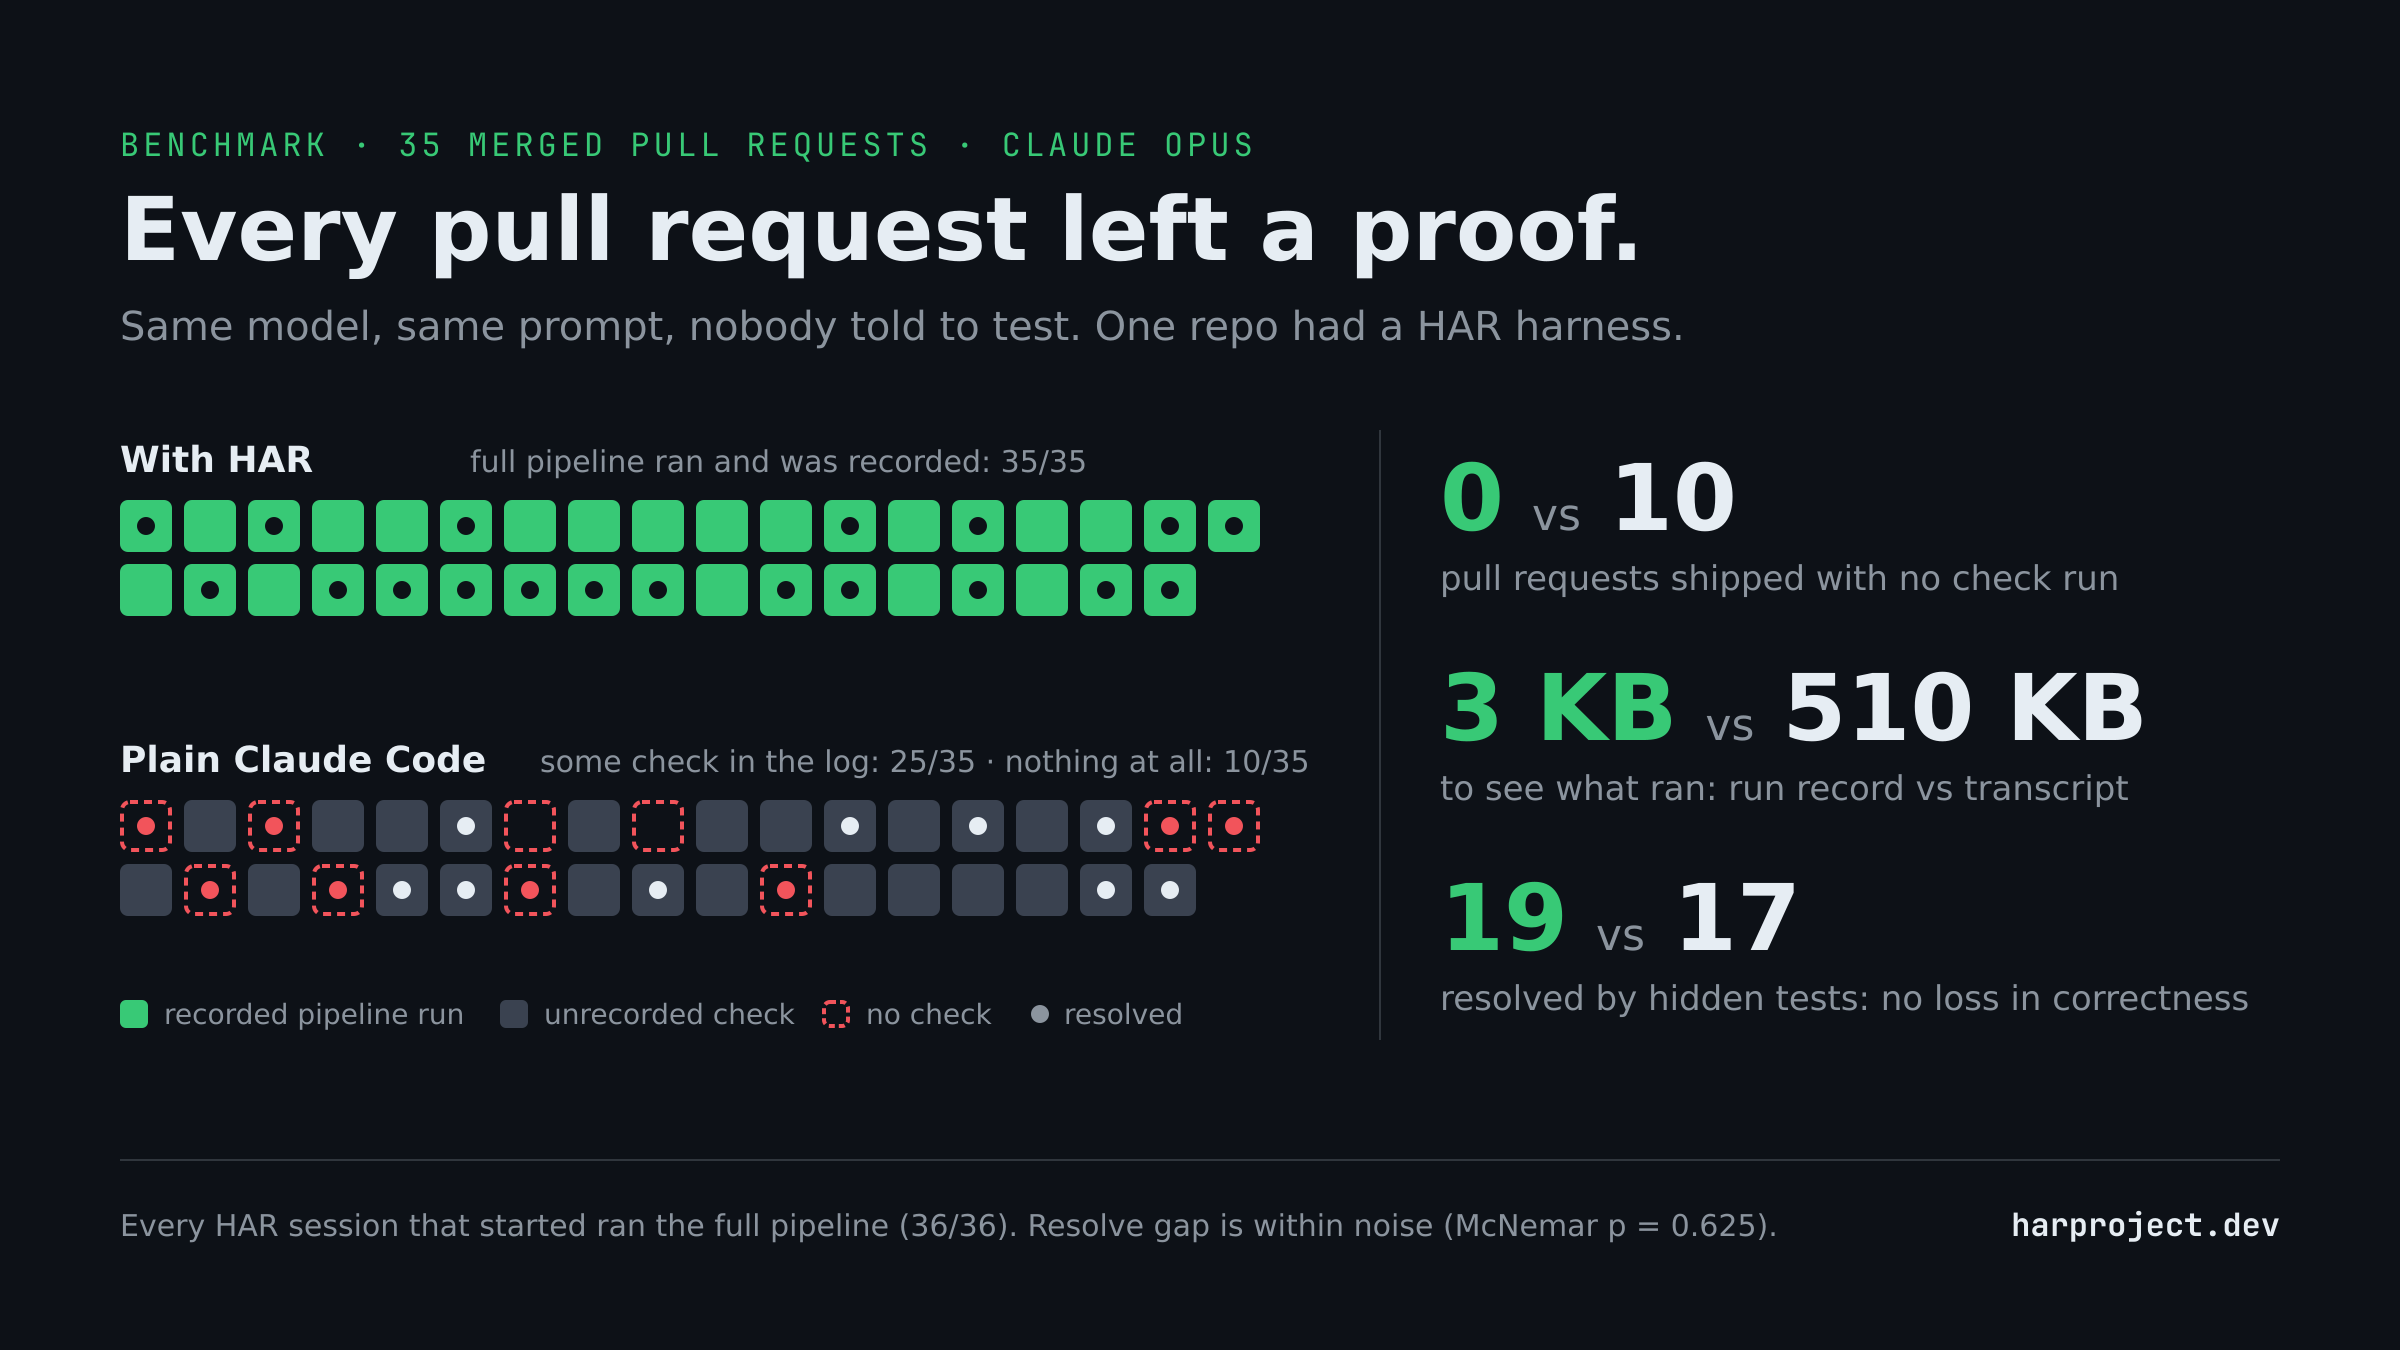
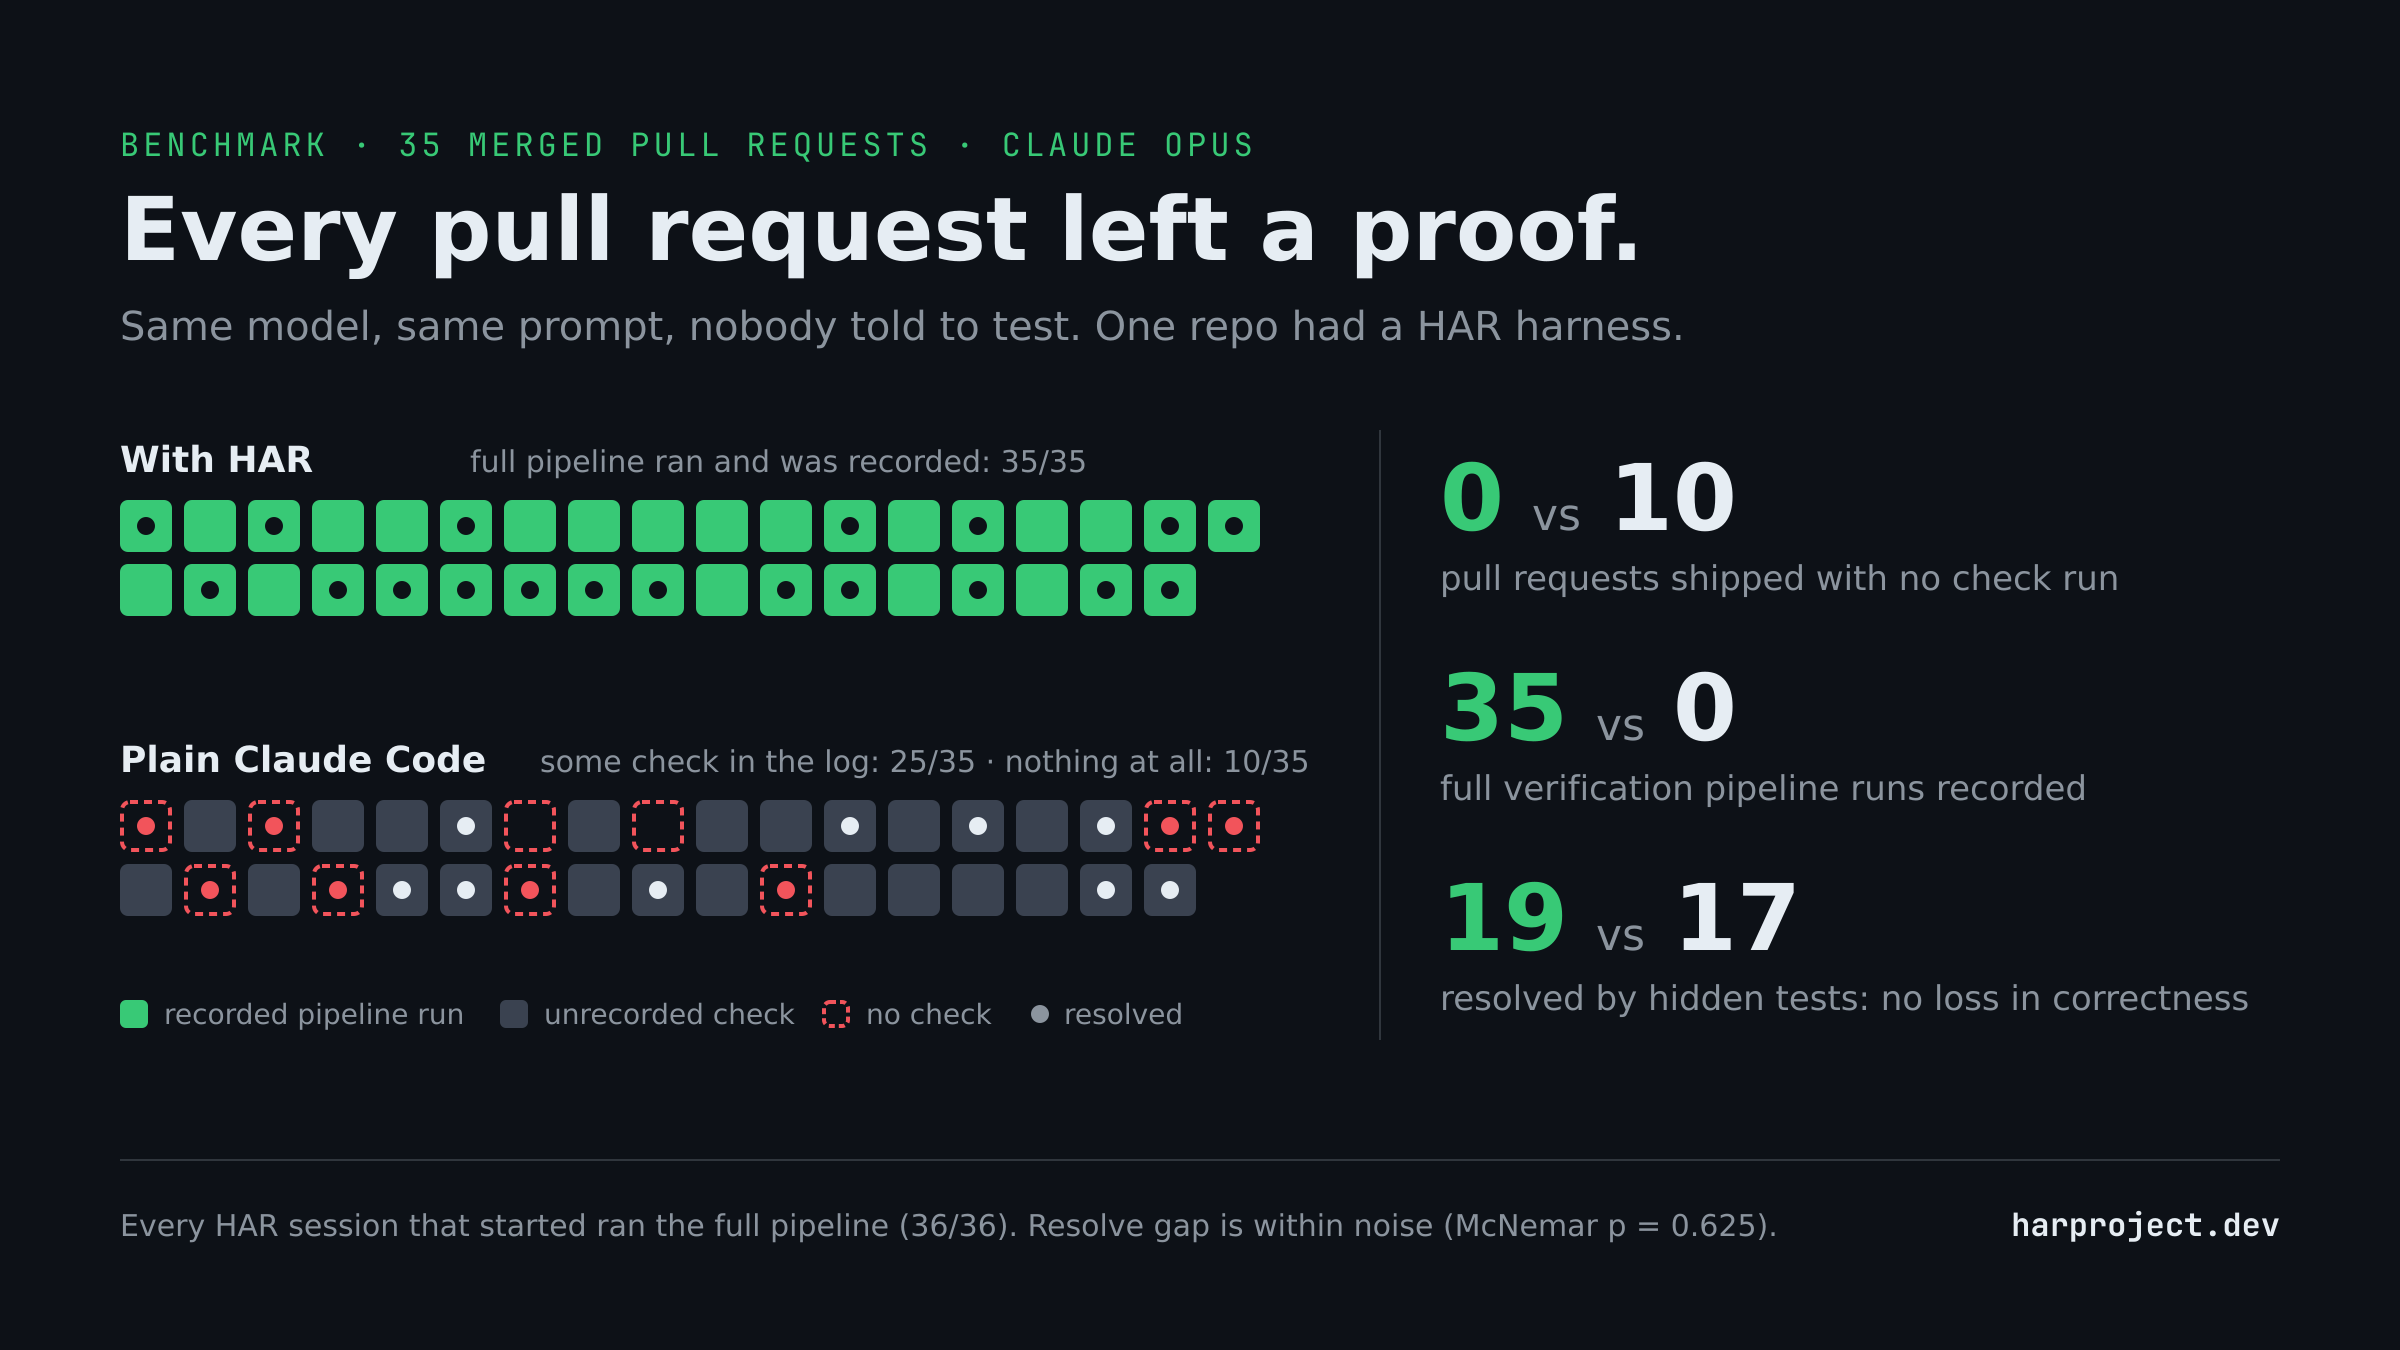
docs: readable benchmark animation with live counters, README GIF
- PrPipeline: figure-local palette that reads in both themes (solid green =
  pipeline ran, solid grey = transcript check, dashed red = no check, check
  mark = hidden tests passed). Cost/token footer replaced by counters that
  tick with the animation: pipeline, no check, resolved.
- README: theme-aware GIF of the animation; drop the KB-size row.
- Share card: replace the KB stat with 35 vs 0 recorded pipeline runs and
  use it only as og:image (frontmatter `shareImage`), since the animation is
  the article's lead figure.
- visual-proof spec asserts the no-check boxes, settled counters and og:image.

Changed region(s): [[0.5938, 0.4978, 0.9062, 0.5911]]

diff --git a/docs/src/styles/global.css b/docs/src/styles/global.css
@@ -636,7 +636,6 @@ body { transition: background-color .25s ease, color .25s ease; }
 :root[data-theme="dark"] .migration-copy:hover { border-color: var(--accent-bright); color: var(--accent-bright); }
 .blog-prose > *:first-child { margin-top: 0; }
 .blog-prose .video-embed { margin: 0 0 1.15em; }
-.blog-prose .blog-cover { display: block; width: 100%; height: auto; margin: 0 0 1.6em; border-radius: 10px; border: 1px solid var(--line); }
 .blog-prose h2 { margin: 2.4em 0 0.7em; font-family: var(--sans); font-size: 22px; font-weight: 650; letter-spacing: -.02em; line-height: 1.25; }
 .blog-prose h3 { margin: 1.8em 0 0.55em; font-family: var(--sans); font-size: 18px; font-weight: 650; letter-spacing: -.01em; }
 .blog-prose p { margin: 0 0 1.15em; }

diff --git a/docs/src/content.config.ts b/docs/src/content.config.ts
@@ -12,9 +12,8 @@ const blog = defineCollection({
 		kicker: z.string().optional(),
 		migrationPrompt: z.boolean().optional(),
 		leadFigure: z.enum(['pr-pipeline']).optional(),
-		/** Path under public/, used as the article cover and the social share image. */
-		cover: z.string().startsWith('/').optional(),
-		coverAlt: z.string().optional(),
+		/** Path under public/ for the social share card (og:image). */
+		shareImage: z.string().startsWith('/').optional(),
 	}),
 });
 

diff --git a/benchmarks/saas-har/scripts/cover_card.py b/benchmarks/saas-har/scripts/cover_card.py
@@ -73,7 +73,7 @@ def stat(y, big_l, big_r, cap):
     a(f'<text x="{sx}" y="{y+30}" font-family="{F}" font-size="17" fill="{MUTED}">{cap}</text>')
 
 stat(265, "0", "10", "pull requests shipped with no check run")
-stat(370, "3 KB", "510 KB", "to see what ran: run record vs transcript")
+stat(370, "35", "0", "full verification pipeline runs recorded")
 stat(475, "19", "17", "resolved by hidden tests: no loss in correctness")
 
 # footer

diff --git a/README.md b/README.md
@@ -71,11 +71,17 @@ HAR coordinates the work around the model, so agents can focus on the code and r
 
 We replayed 35 merged pull requests with Claude Opus and the same prompt, twice: once on a repo with a HAR harness (adapted by a model that never saw the task), once on the plain repo. Neither prompt asked the agent to test.
 
+<p align="center">
+  <picture>
+    <source media="(prefers-color-scheme: dark)" srcset="assets/benchmark/pr-pipeline-dark.gif">
+    <img src="assets/benchmark/pr-pipeline-light.gif" alt="35 pull requests per side. With HAR every box is green: the full verification pipeline ran on all 35, 19 resolved. With plain Claude Code 25 left some check in the transcript, 10 ran no check at all, 17 resolved." width="720">
+  </picture>
+</p>
+
 | | With HAR | Plain Claude Code |
 | --- | ---: | ---: |
 | Ran the project's full verification pipeline | **35/35** | 0/35 |
 | Shipped with no check run at all | **0** | 10/35 |
-| Evidence of what ran | 3 KB run record | 510 KB transcript |
 | Resolved by hidden tests | 19/35 | 17/35 |
 
 Every HAR session that started ran the full pipeline without being told to. Resolve rates are within noise: HAR doesn't make the model smarter. It means every change comes with a record of which stages ran, whether they passed, and how long they took, so review doesn't depend on the agent's word.

diff --git a/docs/src/content/blog/every-pull-request-left-a-proof.md b/docs/src/content/blog/every-pull-request-left-a-proof.md
@@ -4,8 +4,7 @@ description: On 35 paired SaaS tasks, HAR ran the full verification pipeline eve
 date: 2026-10-12
 kicker: Benchmark
 leadFigure: pr-pipeline
-cover: /assets/blog/every-pull-request-left-a-proof.png
-coverAlt: "35 pull requests per arm. With HAR every one ran the full verification pipeline; with plain Claude Code 25 left some check in the log and 10 ran none. 0 vs 10 PRs shipped with no check, 3 KB run record vs 510 KB transcript, 19 vs 17 resolved by hidden tests."
+shareImage: /assets/blog/every-pull-request-left-a-proof.png
 ---
 
 We took 35 merged pull requests and gave each one to the same model twice. `claude-opus-4-8`, one prompt, two checkouts. One checkout had a HAR harness, adapted earlier by another model that never saw the task. The other checkout was the repository as published. Nothing in the prompt asked either arm to install, start, or test.
